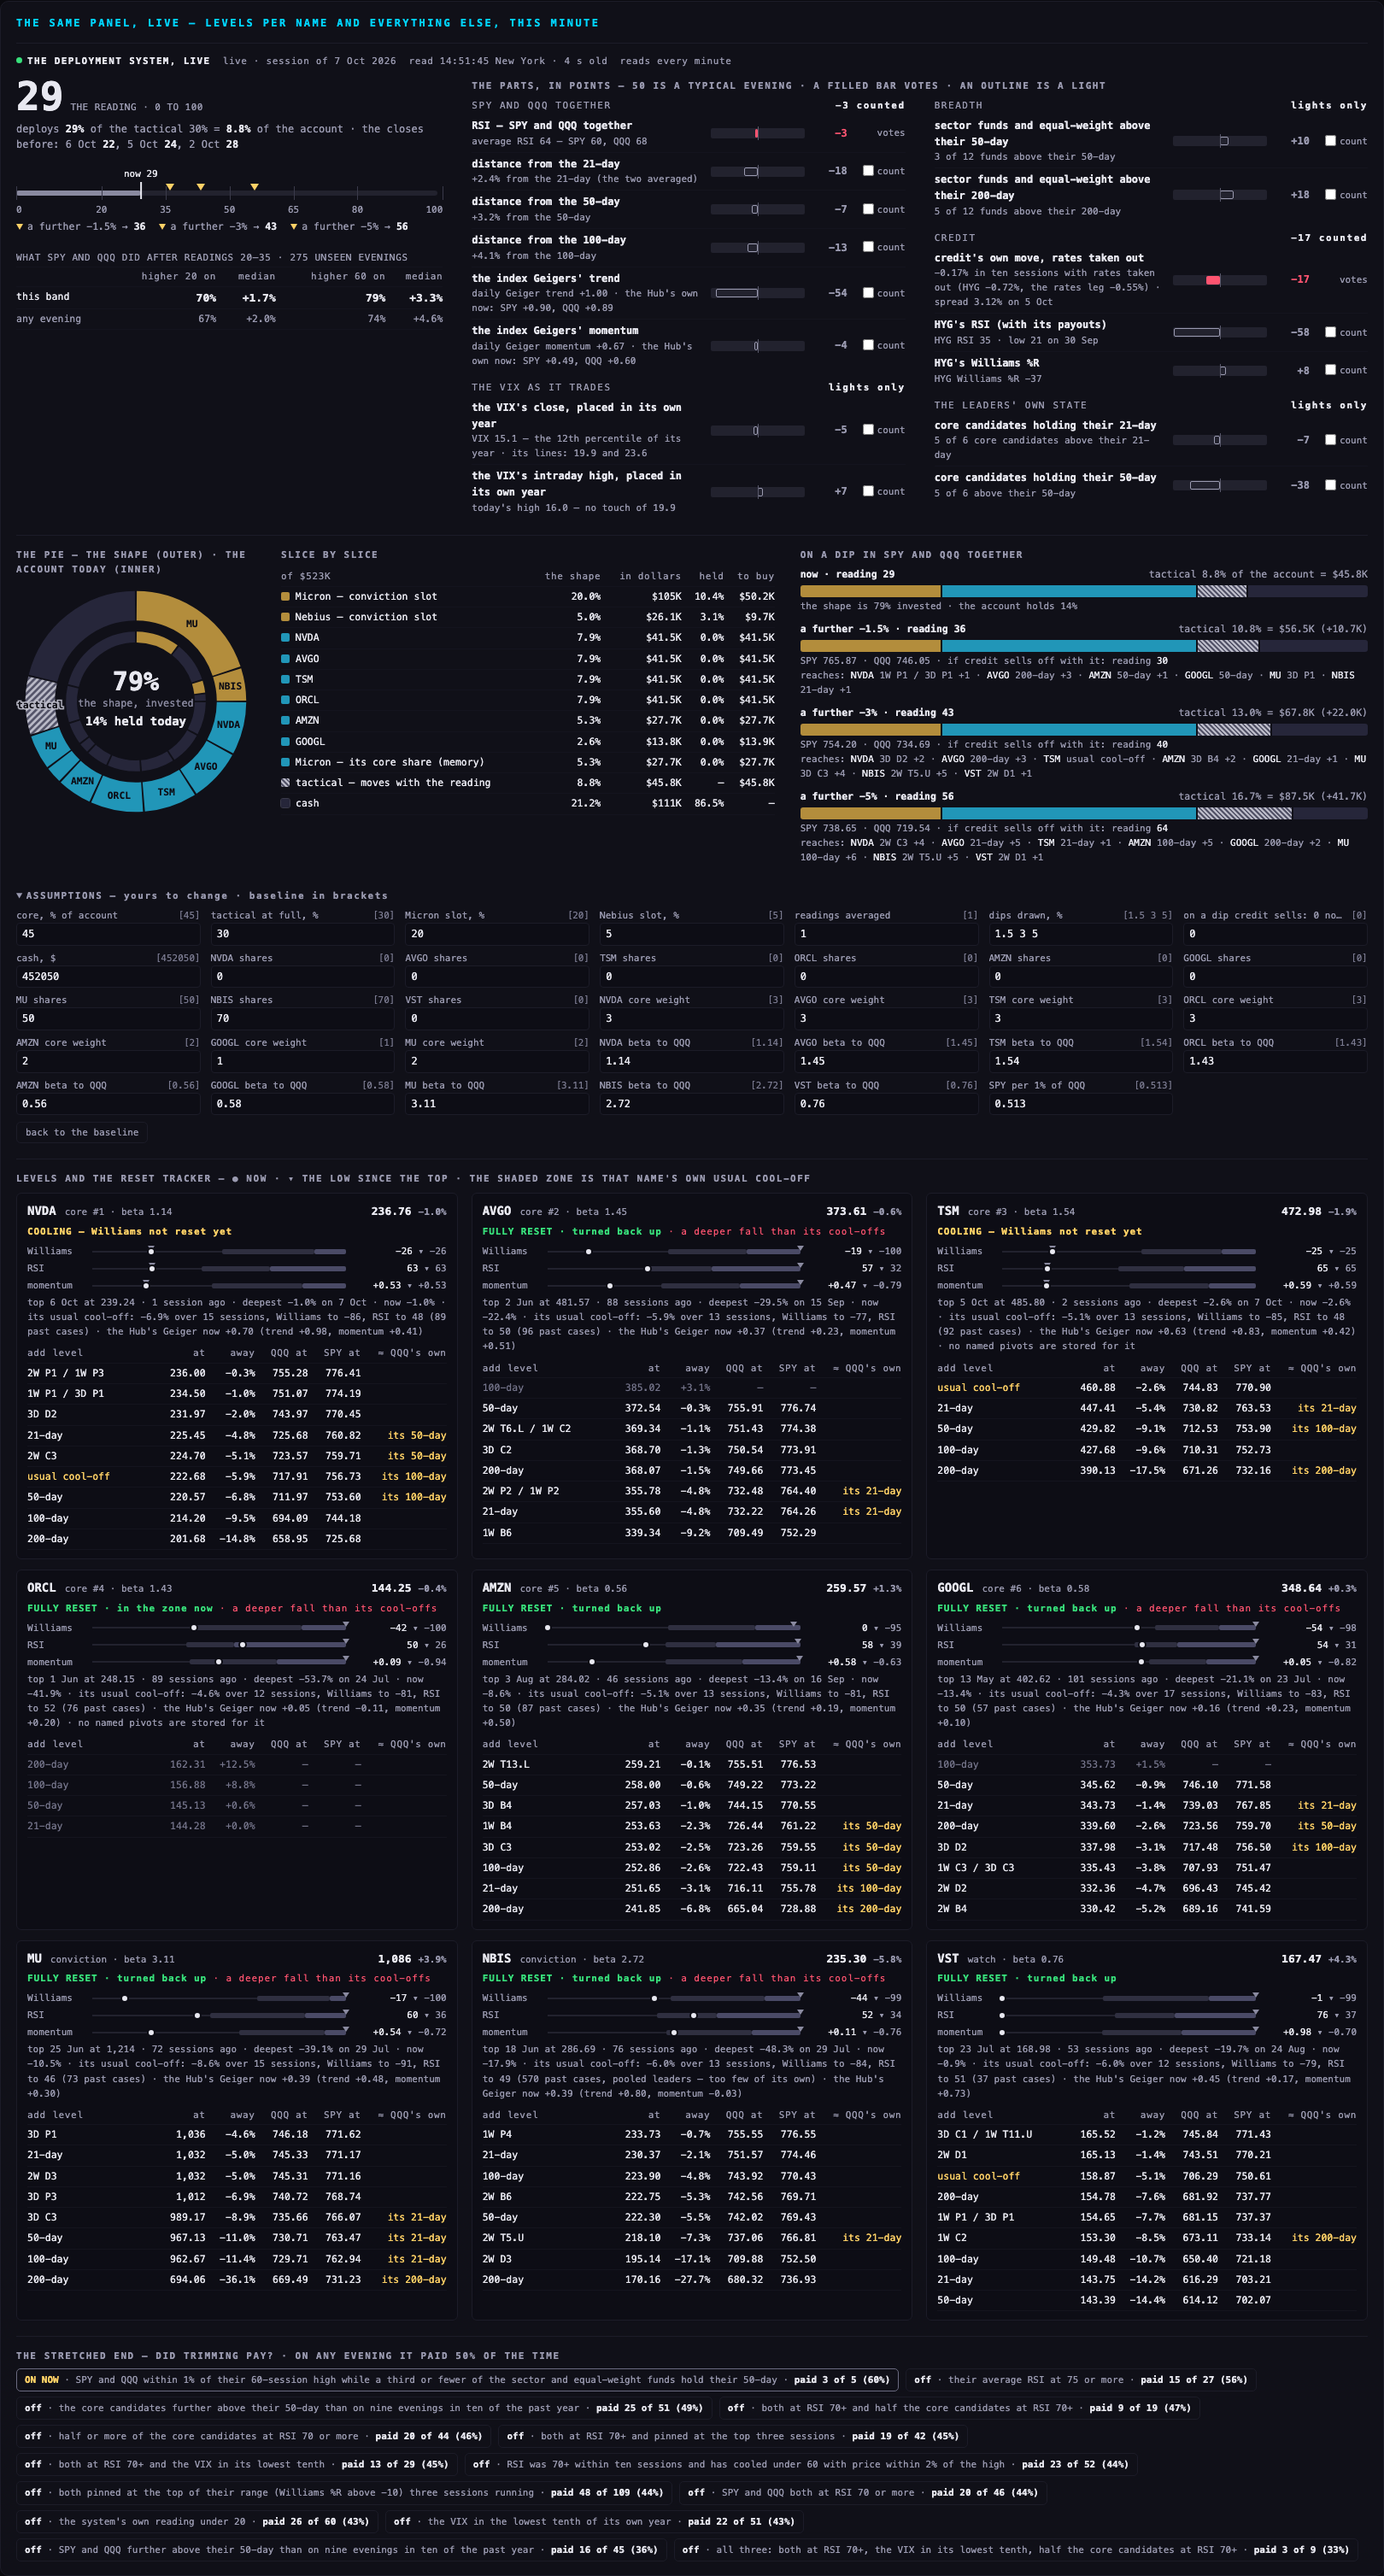
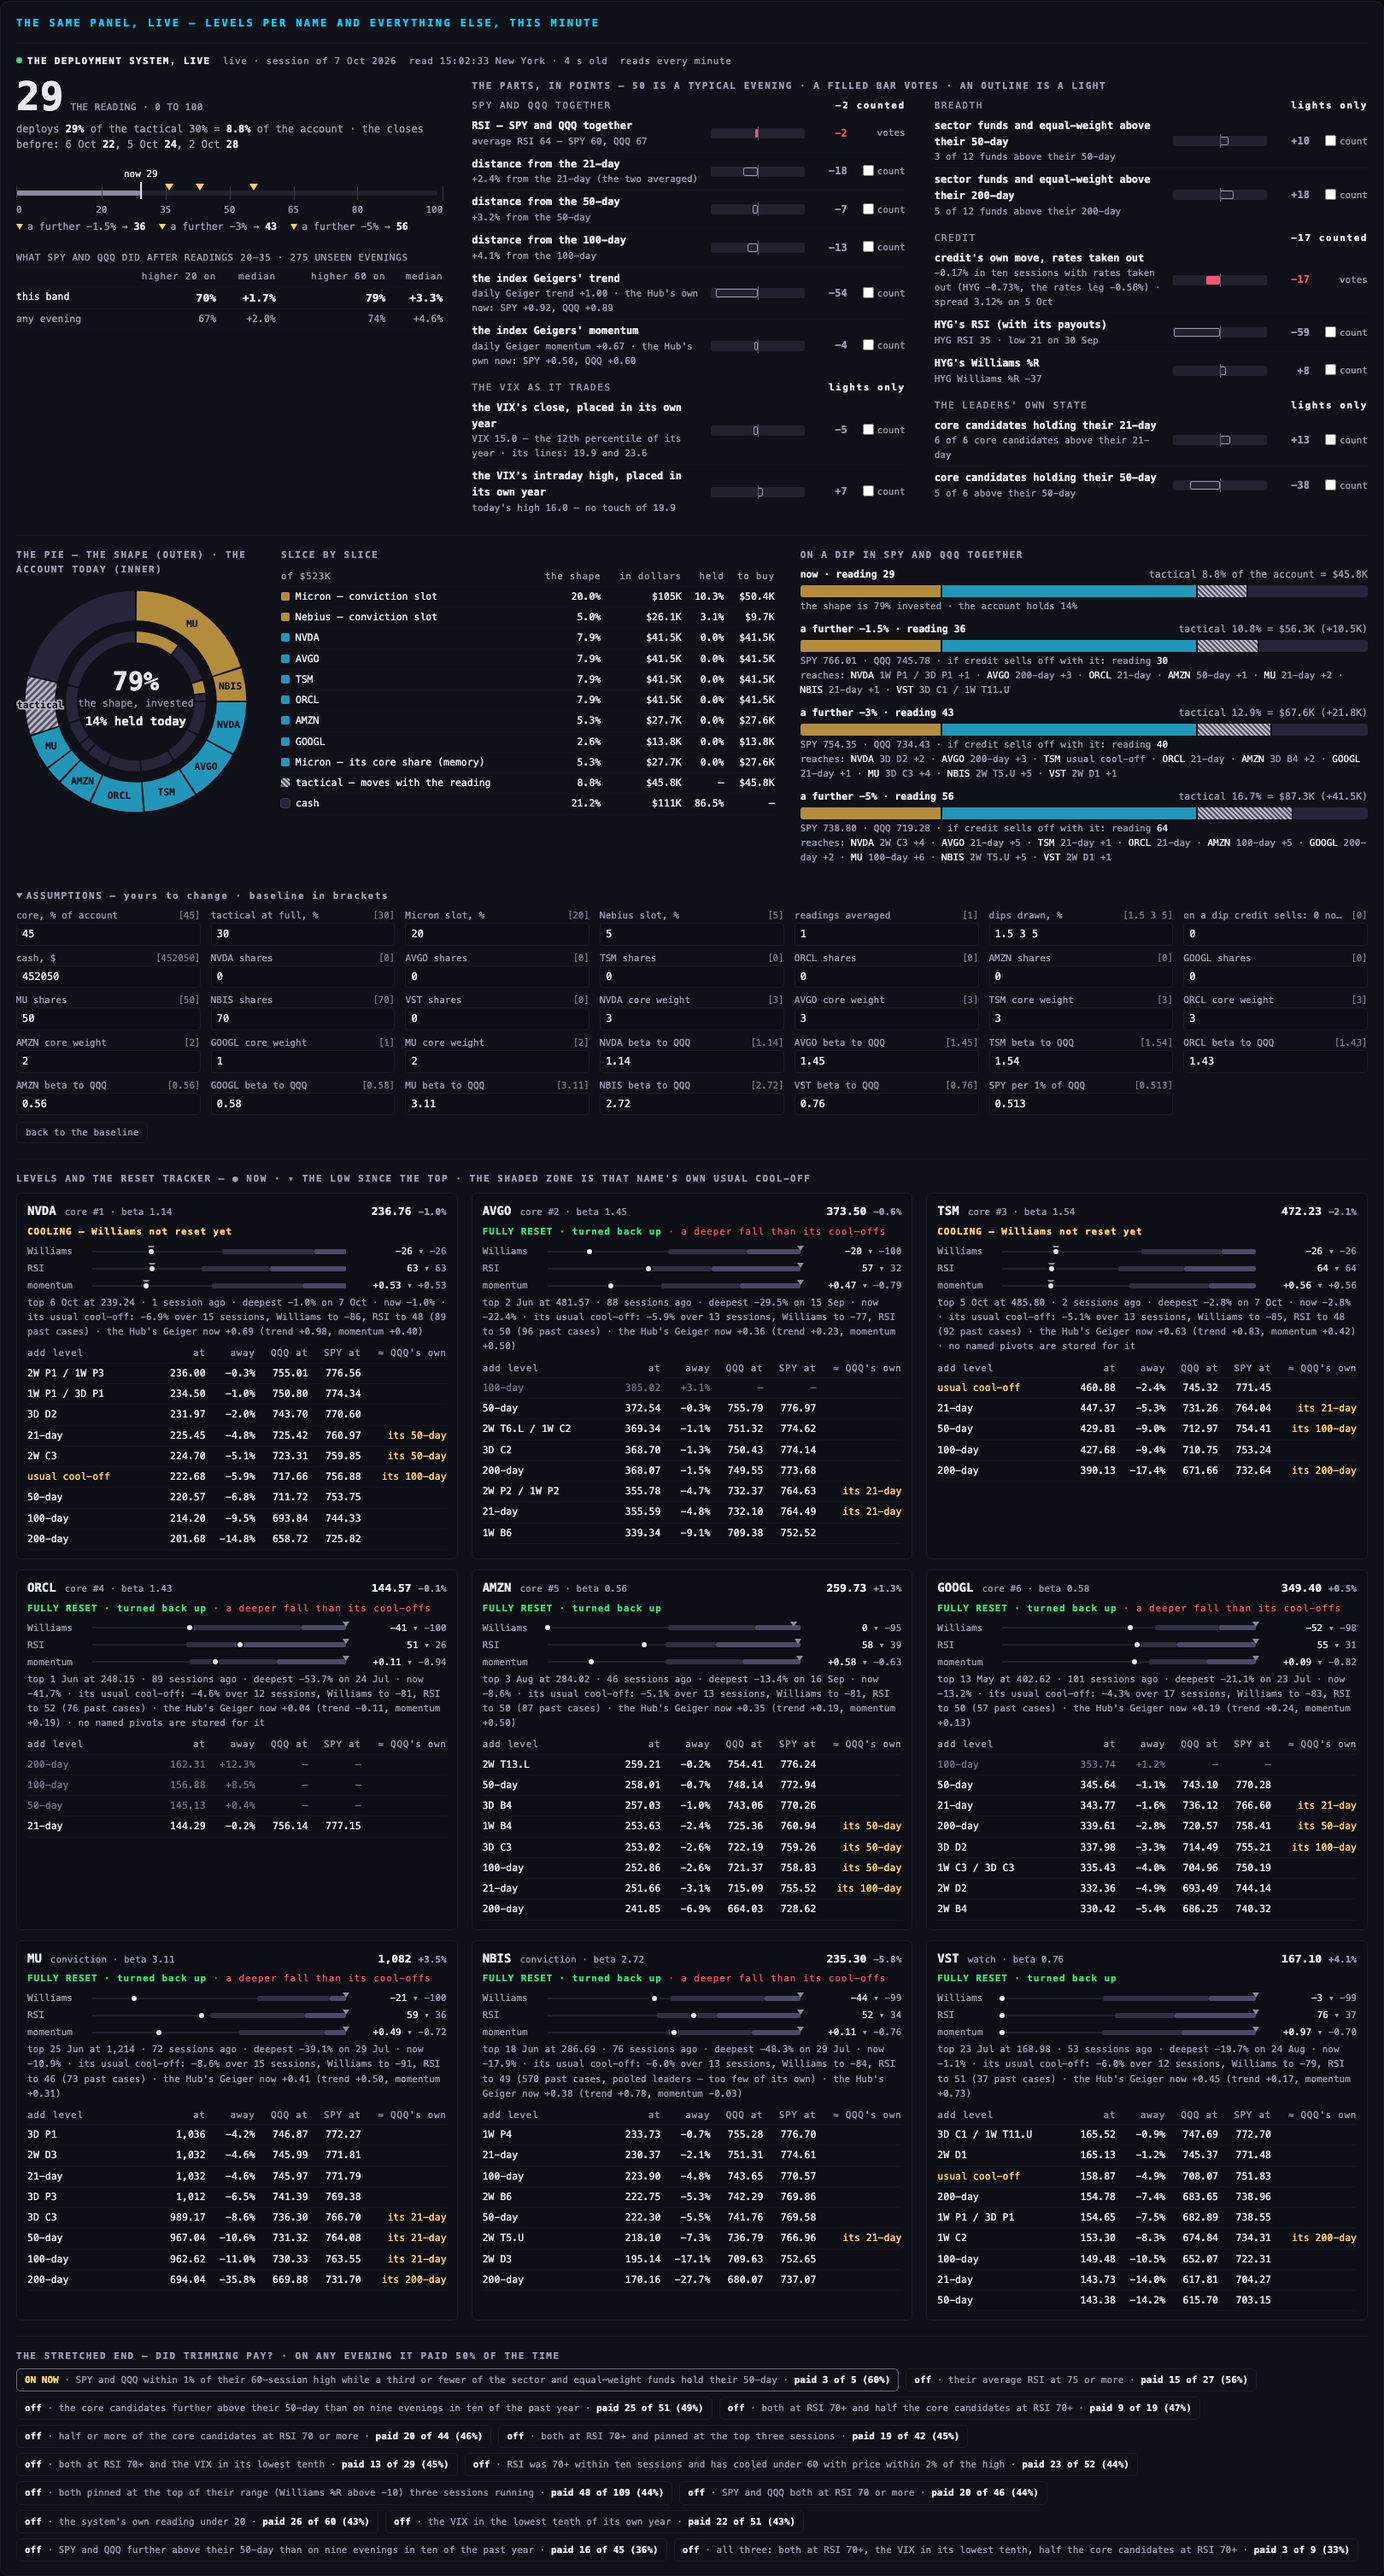
DS1 8 · the study page says what the slow switch cost in the right words: about 31% less at the end (2.38 against 3.44), not 'a third of the gain'; its pictures retaken

diff --git a/study/ds1/DS1.html b/study/ds1/DS1.html
@@ -143,7 +143,7 @@ head("pie", [["slice"], ["baseline, % of the account", "n"], ["at the " + dayS(D
 { const rows = [["Micron — conviction slot", DF.micronPct], ["Nebius — conviction slot", DF.nebiusPct]].concat([...E.CORE, "MU"].map((s) => [s === "MU" ? "Micron — its core share (memory)" : s + " — core", (DF.corePct * DF.coreWeights[s]) / tot])), tac = (r) => (DF.tacticalPct * r) / 100, inv = (r) => DF.corePct + DF.micronPct + DF.nebiusPct + tac(r);
   body("pie", rows.map(([n, p]) => `<tr><td>${n}</td><td class="n">${f1(p)}%</td><td class="n">${f1(p)}%</td>${D.dips.map(() => `<td class="n dim">${f1(p)}%</td>`).join("")}</tr>`).concat(`<tr><td><b>tactical — moves with the reading</b></td><td class="n">up to ${DF.tacticalPct}%</td><td class="n"><b>${f1(tac(T.reading))}%</b></td>${D.dips.map((d) => `<td class="n"><b>${f1(tac(d.reading))}%</b></td>`).join("")}</tr>`, `<tr><td>cash</td><td class="n">—</td><td class="n">${f1(100 - inv(T.reading))}%</td>${D.dips.map((d) => `<td class="n">${f1(100 - inv(d.reading))}%</td>`).join("")}</tr>`, `<tr><td class="dim">the shape, invested</td><td class="n dim">${DF.corePct + DF.micronPct + DF.nebiusPct}% to 100%</td><td class="n">${f1(inv(T.reading))}%</td>${D.dips.map((d) => `<td class="n">${f1(inv(d.reading))}%</td>`).join("")}</tr>`)); }
 const RP = D.pieReplay, held = RP.shapes.filter((s) => !s.slowSwitch), b70 = held.find((s) => s.core === 70), sw70 = RP.shapes.find((s) => s.core === 70 && s.slowSwitch), alone = held.find((s) => s.core === 0), L1 = RP.lineTest.find((l) => l.readings === 1), L3 = RP.lineTest.find((l) => l.readings === 3);
-$("replayLead").innerHTML = `The model fitted to 2017, then run day by day from ${day(RP.from)} to ${day(RP.to)} on the blend, with cash earning the 3-month bill and no costs. Two things stand out. <b>Holding a core paid:</b> every step up in the core made more, at a worst fall a point or so deeper each time. <b>The tactical timing added a little on top:</b> core 70 with tactical 30 turned 1 into ${b70.became.toFixed(2)}, against ${b70.sameShareUntimed.toFixed(2)} for the same average share held without timing. The slow switch — letting the core step aside while SPY is under its 200-day and most sector funds are under theirs, three closes running — cost about a third of the gain (${sw70.became.toFixed(2)} against ${b70.became.toFixed(2)}) to trim the worst fall from ${b70.worstFall}% to ${sw70.worstFall}%. It is not in the baseline. Moving the tactical part on this minute's own reading did a little better than on an average of three evenings (${L1.core70.became.toFixed(2)} against ${L3.core70.became.toFixed(2)}), before costs, and moves about twice as much a session (${L1.pointsMovedPerSession} points against ${L3.pointsMovedPerSession}).`;
+$("replayLead").innerHTML = `The model fitted to 2017, then run day by day from ${day(RP.from)} to ${day(RP.to)} on the blend, with cash earning the 3-month bill and no costs. Two things stand out. <b>Holding a core paid:</b> every step up in the core made more, at a worst fall a point or so deeper each time. <b>The tactical timing added a little on top:</b> core 70 with tactical 30 turned 1 into ${b70.became.toFixed(2)}, against ${b70.sameShareUntimed.toFixed(2)} for the same average share held without timing. The slow switch — letting the core step aside while SPY is under its 200-day and most sector funds are under theirs, three closes running — left about ${f0((1 - sw70.became / b70.became) * 100)}% less at the end (${sw70.became.toFixed(2)} against ${b70.became.toFixed(2)}) to trim the worst fall from ${b70.worstFall}% to ${sw70.worstFall}%. It is not in the baseline. Moving the tactical part on this minute's own reading did a little better than on an average of three evenings (${L1.core70.became.toFixed(2)} against ${L3.core70.became.toFixed(2)}), before costs, and moves about twice as much a session (${L1.pointsMovedPerSession} points against ${L3.pointsMovedPerSession}).`;
 head("replay", [["the shape"], ["1 became", "n"], ["worst fall", "n"], ["invested on average", "n"], ["the same share, untimed", "n"], ["its worst fall", "n"], ["the last two years", "n"], ["untimed", "n"]]);
 body("replay", RP.shapes.map((s) => `<tr><td>${s.core === 0 ? "the reading alone, no core" : `core ${s.core} + tactical ${s.tactical}`}${s.slowSwitch ? " <span class='dim'>with the slow switch</span>" : ""}${s.core === 70 && !s.slowSwitch ? " <span class='gold'>← the baseline (core 45 + conviction 25)</span>" : ""}</td><td class="n"><b>${s.became.toFixed(2)}×</b></td><td class="n">${s.worstFall}%</td><td class="n">${f0(s.invested)}%</td><td class="n">${s.sameShareUntimed.toFixed(2)}×</td><td class="n">${s.sameShareWorstFall}%</td><td class="n">${s.last2y.toFixed(2)}×</td><td class="n">${s.last2yUntimed.toFixed(2)}×</td></tr>`).concat(`<tr><td class="dim">always 60% invested</td><td class="n">${RP.always60.became.toFixed(2)}×</td><td class="n">${RP.always60.worstFall}%</td><td class="n">60%</td><td class="n dim">—</td><td class="n dim">—</td><td class="n dim">—</td><td class="n dim">—</td></tr>`, `<tr><td class="dim">buy and hold</td><td class="n">${RP.buyAndHold.became.toFixed(2)}×</td><td class="n">${RP.buyAndHold.worstFall}%</td><td class="n">100%</td><td class="n dim">—</td><td class="n dim">—</td><td class="n">${RP.buyAndHoldLast2y.toFixed(2)}×</td><td class="n dim">—</td></tr>`));
 
